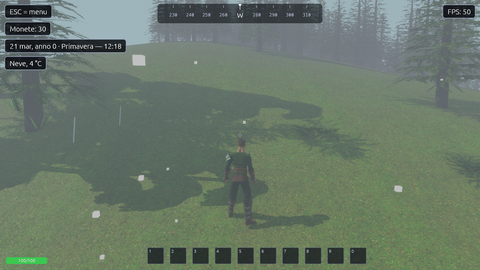
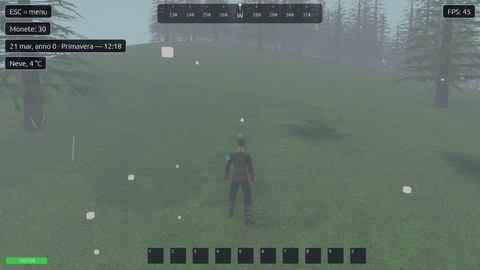
fix(weather): overcast skies remove direct sunlight and sharp shadows
Direct sun fades with an overcast factor from clouds and fog (rain, storm, fog,
snow: under 8%; cloudy: about 30%) while sky light drops less, so the light is
diffuse. Clear weather unchanged. beta_check rotation now gives each script a fixed
resolution so photos are always compared at the reference resolution.

diff --git a/src/daynight.rs b/src/daynight.rs
@@ -317,6 +317,18 @@ pub fn spawn_sky_discs(
     }
 }
 
+/// Quanto il cielo è coperto (0 sereno, 1 coperto), da nuvole e nebbia. Con il cielo coperto
+/// il sole non arriva diretto: niente ombre nette, la luce viene tutta dal cielo.
+/// Il nuvoloso (0,55) resta a metà: il sole passa ancora fra le nuvole.
+pub fn overcast(cloud: f32, fog: f32) -> f32 {
+    smoothstep(0.2, 0.9, cloud.max(fog))
+}
+
+/// Luce diretta del sole rispetto al sereno (0..1).
+pub fn direct_sun(cloud: f32, fog: f32) -> f32 {
+    (1.0 - 0.78 * cloud) * (1.0 - 0.92 * overcast(cloud, fog))
+}
+
 /// Sistema: posiziona luci e dischi e regola luce ambiente e cielo in base all'ora.
 #[allow(clippy::too_many_arguments, clippy::type_complexity)]
 pub fn update_sky(
@@ -343,13 +355,15 @@ pub fn update_sky(
 ) {
     let dir = sun_dir(clock.day_fraction().floor(), clock.hour);
     let elev = dir.y;
+    let cover = overcast(weather.cloud, weather.fog);
     let day = smoothstep(-0.1, 0.25, elev);
     let night_moon = smoothstep(-0.1, 0.25, -elev);
     let warm = 1.0 - smoothstep(0.0, 0.45, elev);
 
     if let Ok((mut t, mut light)) = sun.single_mut() {
         *t = Transform::from_translation(dir * 20.0).looking_at(Vec3::ZERO, Vec3::Y);
-        light.illuminance = 9000.0 * day * (1.0 - 0.78 * weather.cloud) + weather.flash * 9000.0;
+        light.illuminance =
+            9000.0 * day * direct_sun(weather.cloud, weather.fog) + weather.flash * 9000.0;
         let c = Vec3::new(1.0, 0.95, 0.85).lerp(Vec3::new(1.0, 0.55, 0.3), warm)
             * Vec3::from(season.0.sun);
         let c = c.lerp(Vec3::new(0.8, 0.85, 0.9), 0.6 * weather.cloud);
@@ -363,7 +377,8 @@ pub fn update_sky(
     let amb = Vec3::new(0.35, 0.42, 0.7).lerp(Vec3::new(0.9, 0.92, 0.98), day);
     ambient.color = Color::srgb(amb.x, amb.y, amb.z);
     ambient.brightness =
-        (8.0 + (40.0 - 8.0) * day) * season.0.ambient * (1.0 - 0.15 * weather.cloud)
+        // Col cielo coperto la luce diffusa cresce un po': prende il posto del sole.
+        (8.0 + (40.0 - 8.0) * day) * season.0.ambient * (1.0 + 0.8 * cover)
             + weather.flash * 700.0;
 
     let sky = smoothstep(-0.15, 0.3, elev);
@@ -374,7 +389,7 @@ pub fn update_sky(
         if let Some(mut env) = env {
             // Bevy crea `EnvironmentMapLight` una sola volta dalla versione "generata": l'intensità si regola qui.
             // Di notte il cielo non deve illuminare quasi nulla.
-            env.intensity = (6.0 + 1000.0 * sky) * (1.0 - 0.6 * weather.cloud.max(weather.fog))
+            env.intensity = (6.0 + 1000.0 * sky) * (1.0 - 0.35 * weather.cloud.max(weather.fog))
                 + weather.flash * 900.0;
         }
     }
@@ -394,6 +409,19 @@ pub fn update_sky(
 #[cfg(test)]
 mod tests {
     use super::*;
+
+    #[test]
+    fn overcast_sky_removes_direct_sun() {
+        // Sereno: il sole pieno (quasi).
+        assert!(direct_sun(0.05, 0.0) > 0.9);
+        // Nuvoloso: il sole passa a tratti, ombre tenui.
+        let cloudy = direct_sun(0.55, 0.0);
+        assert!(cloudy > 0.2 && cloudy < 0.5, "{cloudy}");
+        // Pioggia, temporale, nebbia, neve: quasi niente sole diretto, niente ombre nette.
+        for (c, f) in [(0.85, 0.25), (1.0, 0.3), (0.5, 1.0), (0.8, 0.35)] {
+            assert!(direct_sun(c, f) < 0.08, "{c} {f}: {}", direct_sun(c, f));
+        }
+    }
 
     #[test]
     fn start_date_is_march_21_year_0() {

diff --git a/docs/beta/PIANO-BETA.md b/docs/beta/PIANO-BETA.md
@@ -246,12 +246,13 @@ Suite completa a rotazione (21 copioni, cinque o sei per risoluzione): tutti pas
 - senza finestra Bevy avvisava che mancava l'origine del dettaglio delle ombre (`ShadowLodOrigin`): ora è la camera, così le ombre e gli FPS misurati sono come a finestra;
 - `b2-torre`: il `tp` dentro la torre mette il giocatore sotto il pavimento prima che i collider siano pronti, e la rete di sicurezza lo riporta su (`[RETE]`). Il giocatore non ci arriva così; la prova passa;
 - una finestra 1080p può aprirsi sul secondo monitor (1920×1080) e venire ridotta a 1850×1043: il rapporto lo segnala nella colonna Risoluzione;
-- foto di riferimento: rifatte tutte senza finestra (15 copioni, 63 foto) dopo averle guardate una per una. `meteo` ora inquadra un prato aperto a ovest (prima il giocatore era attaccato a un muro); `scuri-casetta` inquadra la finestra sud da fuori e fotografa giorno, notte e mattina (prima si vedevano solo le guardie). `quest-completa` falliva una volta su tre: il ladro muore in punti diversi e il giro fisso a volte lasciava una moneta oltre i 2 m di raccolta; ora il pilota percorre la zona a griglia (passato 3 volte su 3). Corsa di verifica: 63 foto su 63 entro la soglia.
+- foto di riferimento: rifatte tutte senza finestra (15 copioni, 63 foto) dopo averle guardate una per una. `meteo` ora inquadra un prato aperto a ovest (prima il giocatore era attaccato a un muro); `scuri-casetta` inquadra la finestra sud da fuori e fotografa giorno, notte e mattina (prima si vedevano solo le guardie). `quest-completa` falliva una volta su tre: il ladro muore in punti diversi e il giro fisso a volte lasciava una moneta oltre i 2 m di raccolta; ora il pilota percorre la zona a griglia (passato 3 volte su 3). Corsa di verifica: 63 foto su 63 entro la soglia. Nel giro ogni copione gira sempre alla stessa risoluzione (il posto fisso fra tutti i copioni), anche quando se ne lancia solo qualcuno: l'HUD non scala con la risoluzione e le foto si confrontano solo a parità.
 
 **Prove che non disturbano (11/11)**: di base `beta_check.sh` gira senza finestra, quindi non arriva input da tastiera, mouse o gamepad, e con l'audio in una scheda virtuale di PulseAudio (`module-null-sink`, `PULSE_SINK`), tolta alla fine. Le casse restano mute e `registra` registra lo stesso: i livelli coincidono con la revisione dei suoni. Le foto senza finestra hanno comunque l'HUD. `--con-finestra` e `--con-casse` tornano come prima. Unico avviso nuovo: un «buffer underrun» di rodio nel copione `ascolto` (la scheda virtuale ha un suo orologio; non si sente nella registrazione).
 
 Trovati guardando le foto (da decidere):
-- **Meteo**: con nuvoloso, nebbia, pioggia, temporale e neve il sole proietta ancora **ombre nette** come col sereno. Il cielo coperto dovrebbe ammorbidirle o toglierle.
+- **Meteo** (corretto): con nuvoloso, nebbia, pioggia, temporale e neve il sole proiettava ancora **ombre nette** come col sereno. Ora col cielo coperto la luce diretta del sole quasi sparisce (pioggia, temporale, nebbia e neve: sotto l'8%) e la luce del cielo cala meno: niente ombre nette, luce diffusa. Col nuvoloso il sole passa a tratti (circa 30%) e le ombre sono tenui. Il sereno non cambia.
+- **Pioggia**: come per la neve, le gocce vicinissime alla camera diventano lunghe barre bianche.
 - **Neve**: i fiocchi vicini alla camera sono grossi quadrati bianchi.
 - **Interfaccia a 4K**: l'HUD e i pannelli non si ingrandiscono con la risoluzione. Senza ridimensionamento del sistema (100%) sono minuscoli: serve una scala dell'interfaccia (automatica o nelle impostazioni).
 - **Insegne vuote**: alcuni edifici hanno la tabella senza scritta (forno, bottega di Osvaldo, sopra due porte).

diff --git a/CHANGELOG.md b/CHANGELOG.md
@@ -4,6 +4,7 @@ Formato versione: `vMAJOR.MINOR.FEATURE.BUGFIX` (vedi [docs/VERSIONING.md](docs/
 
 ## Non rilasciato
 
+- **Meteo, ombre**: col cielo coperto (pioggia, temporale, nebbia, neve) il sole non proietta più ombre nette: la luce diretta quasi sparisce e quella del cielo diventa diffusa. Col nuvoloso le ombre sono tenui. Il sereno non cambia.
 - **Sottotetti**: la rampa finiva contro il muretto e in soffitta non si saliva; ora finisce prima e c'è il percorso fino in cima.
 - **Caserma**: due brande nel sottotetto per Livio e Mario, le ronde della notte.
 - **IA locale, prima risposta lenta**: il modello si carica con lo stesso contesto piccolo della chat (3072 token). Prima poteva caricarsi col contesto predefinito di Ollama (enorme se configurato a 256k): 9,2 GB invece di 3,3, quasi tutti sul processore, e la chat non rispondeva in 150 s. Il caricamento anticipato avviene solo sotto il pilota automatico; nel gioco normale il modello si carica alla prima richiesta e, dopo la prima risposta (o il primo errore), il log dice quanta parte sta sulla scheda video e avvisa se una parte va sul processore. Il modello resta in memoria 10 minuti dopo l'ultima richiesta (prima 2).
